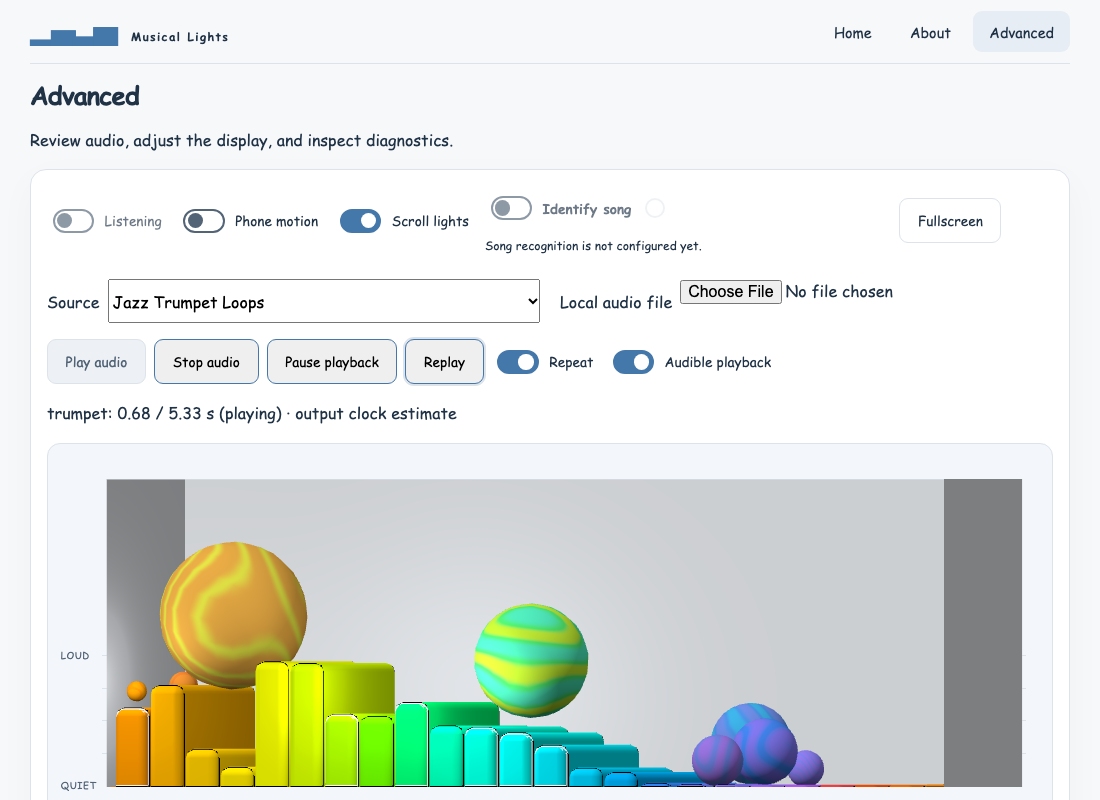
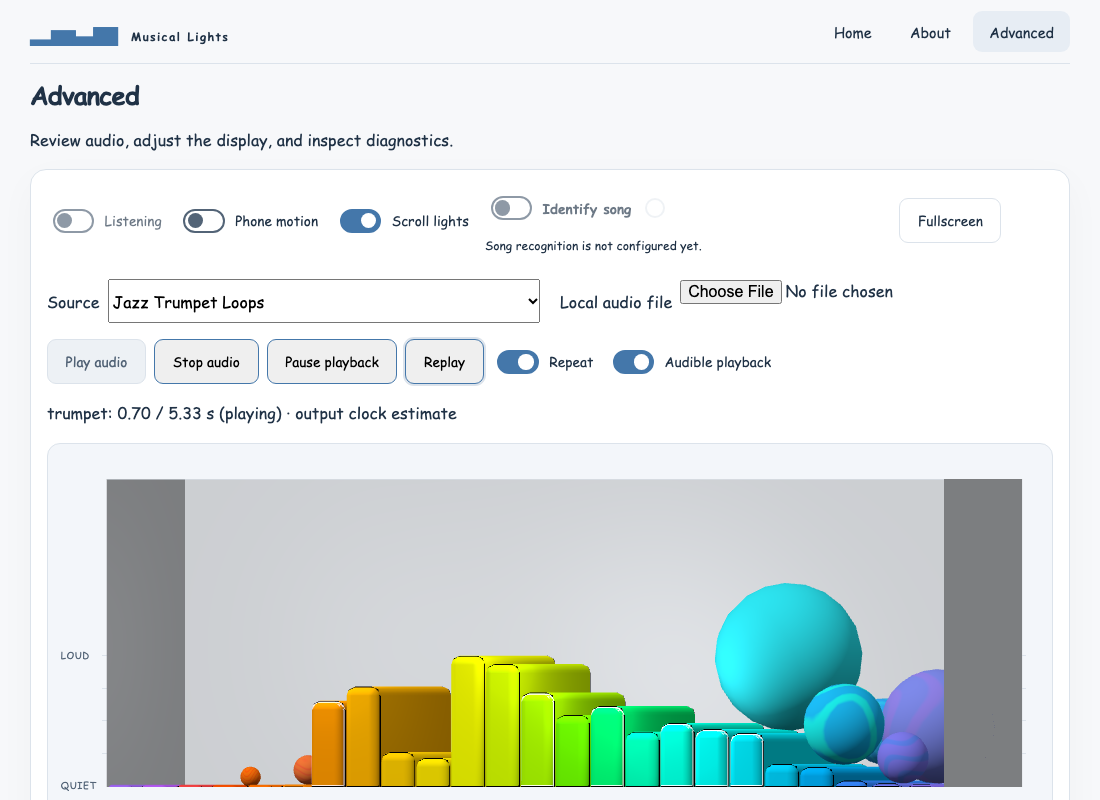
Make shared tempo scrolling travel two columns per beat

Changed region(s): [[0.0927, 0.6562, 0.8655, 1.0], [0.1236, 0.5, 0.1545, 0.5312]]

diff --git a/musical-lights-core/src/lights/musical_motion.rs b/musical-lights-core/src/lights/musical_motion.rs
@@ -2,8 +2,11 @@
 //! units for scrolling, linear RGB for pigments; no engine, heap, or browser APIs.
 use num::Float;
 
-pub const SCROLL_SPEED: f64 = 2.0;
-pub const SCROLL_PERIOD: f64 = 8.0;
+/// Average absolute travel at 120 BPM: two columns per beat.
+pub const SCROLL_SPEED: f64 = 4.0;
+/// Four-beat full cycle at 120 BPM; each direction lasts two beats.
+/// The shorter cycle keeps the excursion bounded when increasing travel speed.
+pub const SCROLL_PERIOD: f64 = 2.0;
 pub const SCROLL_EASE: f64 = 0.120;
 pub const SCROLL_PEAK_SPEED: f64 = SCROLL_SPEED * core::f64::consts::FRAC_PI_2;
 
@@ -105,13 +108,39 @@ mod tests {
             travel += dx.abs();
         }
         assert!(distance.abs() < 1e-8);
-        assert!((travel / 16.0 - 2.0).abs() < 0.001);
+        assert!((travel / 16.0 - 4.0).abs() < 0.001);
         let dx = scroll.advance(true, 180.0, 1.0 / 120.0);
         assert!(dx.abs() <= SCROLL_PEAK_SPEED * 1.5 / 120.0);
         for _ in 0..30 {
             scroll.advance(false, 180.0, 1.0 / 120.0);
         }
         assert_eq!(scroll.advance(false, 180.0, 1.0 / 120.0), 0.0);
+    }
+    #[test]
+    fn scrolling_travels_two_columns_per_beat_across_the_tempo_range() {
+        for bpm in [60.0, 90.0, 120.0, 180.0, 200.0] {
+            let mut scroll = BalancedScroll::default();
+            let dt = 1.0 / 240.0;
+            for _ in 0..240 {
+                scroll.advance(true, bpm, dt);
+            }
+            // Integrate two complete reversal cycles at each tempo. Fractional
+            // final ticks keep the measurement window exact, including 200 BPM.
+            let duration = 2.0 * SCROLL_PERIOD * 120.0 / bpm;
+            let mut remaining = duration;
+            let mut travel = 0.0;
+            let mut displacement = 0.0;
+            while remaining > 1e-12 {
+                let step = remaining.min(dt);
+                let dx = scroll.advance(true, bpm, step);
+                travel += dx.abs();
+                displacement += dx;
+                remaining -= step;
+            }
+            let beats = duration * bpm / 60.0;
+            assert!((travel / beats - 2.0).abs() < 0.001, "{bpm} BPM");
+            assert!(displacement.abs() < 1e-8, "{bpm} BPM");
+        }
     }
     #[test]
     fn drag_is_stable_and_depends_on_size_and_speed() {

diff --git a/musical-lights-physics/src/tests.rs b/musical-lights-physics/src/tests.rs
@@ -91,7 +91,8 @@ fn continuous_scroll_stops_in_place_resumes_and_recycles_only_outside() {
     })
     .unwrap();
     sim.step();
-    assert!(sim.scroll_phase > stopped);
+    assert!(sim.scroll_phase != stopped);
+    assert!((sim.scroll_phase - stopped).abs() < SCROLL_PEAK_SPEED / HZ as f64);
     sim.apply(SimulationInput {
         tick: sim.tick,
         reduced_motion: true,
@@ -1370,7 +1371,7 @@ fn tempo_updates_preserve_scroll_position_and_scale_signed_travel() {
         ..SimulationInput::default()
     })
     .unwrap();
-    for _ in 0..120 {
+    for _ in 0..(HZ as f64 * SCROLL_PERIOD / 8.0) as usize {
         sim.step();
     }
     let phase = sim.scroll_phase;
@@ -1385,7 +1386,7 @@ fn tempo_updates_preserve_scroll_position_and_scale_signed_travel() {
         ..SimulationInput::default()
     })
     .unwrap();
-    for _ in 0..120 {
+    for _ in 0..(HZ as f64 * SCROLL_PERIOD / 8.0) as usize {
         slow.step();
     }
     let phase = slow.scroll_phase;

diff --git a/docs/musical-motion-results/README.md b/docs/musical-motion-results/README.md
@@ -32,6 +32,13 @@ seconds; the bar controller owns fixed arrays. Browser source acquisition,
 permissions, song uploads, Rapier bodies, shaders and light objects stay in their
 platform adapters. The hardware core has no dependency on those packages.
 
+Scrolling follows the smoothed tempo at an average of two columns per beat:
+four columns per second at 120 BPM, twice the initial PR speed. Gentle balanced
+reversals every two beats limit the excursion to two columns, and
+position stays continuous through tempo changes. Reduced
+Motion disables automatic travel. The rate is defined in the shared core, so
+embedded displays and the browser adapter use the same motion.
+
 The estimator aggregates existing 2 ms spectral novelty into a 50 Hz envelope.
 It retains eight seconds (400 f32 values), evaluates after four seconds every
 half-second, searches 60–200 BPM using normalized mean-centered onset
@@ -86,6 +93,16 @@ Chromium/iPhone-profile WebKit run passes 32 checks, including native touch,
 fullscreen transitions, and stopping Listening after Exit. Full-suite, CI and
 deployment results are reported separately in
 [PR #39](https://github.com/BlinkyStitt/musical-lights-rs/pull/39) and its Actions runs.
+
+The faster-scroll follow-up passes all 64 core tests in each of four feature
+configurations, all 40 physics tests, and the worklet/Leptos checks. Its focused
+Chromium, WebKit and iPhone-profile WebKit run passes all 79 checks with the
+serial startup and crash guards intact, including expensive-step scheduling,
+fullscreen snapshot age, wall containment, native touch and Reduced Motion.
+The refreshed identical-PCM image previews record roughly 60 FPS on this Mac
+with scrolling enabled and disabled; see each browser's `render-cost.json`.
+These short digital-music runs do not qualify as phone FPS acceptance. Full-suite
+and current-head CI results remain separately reported in the PR.
 
 Core validation passes 63 tests in each of four feature configurations, including
 four tempo tests and reusable bar-motion/scroll/drag/pigment checks. The core also

diff --git a/docs/physics.md b/docs/physics.md
@@ -67,10 +67,12 @@ Large attacks from rest must arrive within 1% of a stable target within 50 ms
 of physics receipt. Stable corrections up to 1% must settle within 150 ms.
 Retarget reversals include braking and are tested separately.
 
-The full pattern scrolls in both directions on an eight-second sinusoidal cycle
-at 120 BPM, reversing gently every four seconds. Average absolute travel is two
-columns per second, scaling with the smoothed tempo; peak speed is π/2 times that
-rate. Equal travel left and right removes permanent conveyor bias. A tempo-scaled
+The full pattern scrolls in both directions on a two-second sinusoidal cycle
+at 120 BPM, reversing gently every second. Average absolute travel is four
+columns per second (two columns per beat), scaling with the smoothed tempo;
+peak speed is π/2 times that rate. Equal travel left and right removes permanent
+conveyor bias. The shorter cycle limits the excursion to two columns
+instead of increasing the distance balls are carried toward a wall. A tempo-scaled
 enabled-time clock preserves position through tempo changes and when stopped,
 with a 120 ms smoothstep start/stop transition.
 Disabling scrolling and Reduced Motion stop in place; enabling scrolling resumes there.
@@ -217,8 +219,9 @@ reset. Phone acceptance also checks snapshot age and displayed tick progress;
 a running worker with a frozen renderer cannot pass on frame rate alone.
 
 **Scroll lights** now continuously translates the collider/visual source
-columns. At 120 BPM it averages two columns per second of absolute travel, with
-balanced smooth reversals every four seconds of tempo-scaled enabled time.
+columns. At 120 BPM it averages four columns per second of absolute travel (two
+columns per beat), with balanced smooth reversals every second of
+tempo-scaled enabled time.
 Tempo changes integrate into the running phase. Switching scrolling off eases
 to a stop in place; Reduced Motion disables automatic travel. Source colors,
 contacts, accessible labels and audio data keep their source identity.
